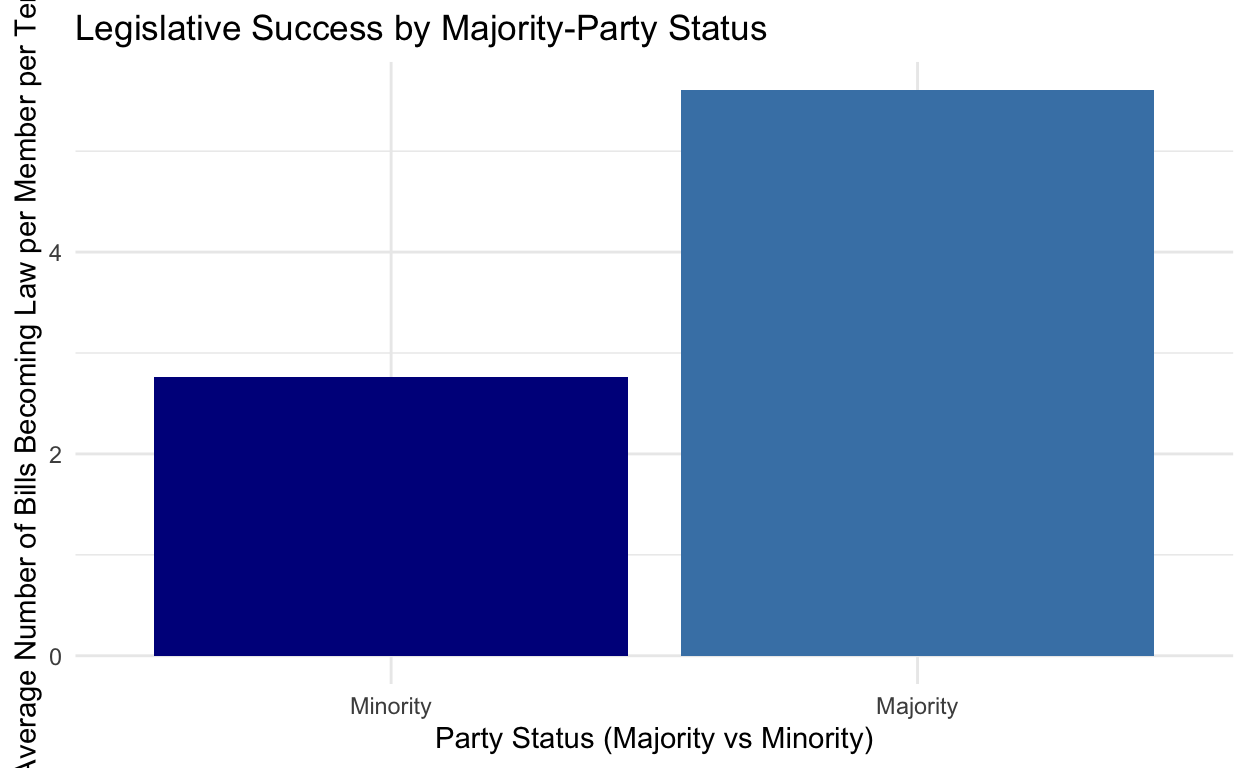
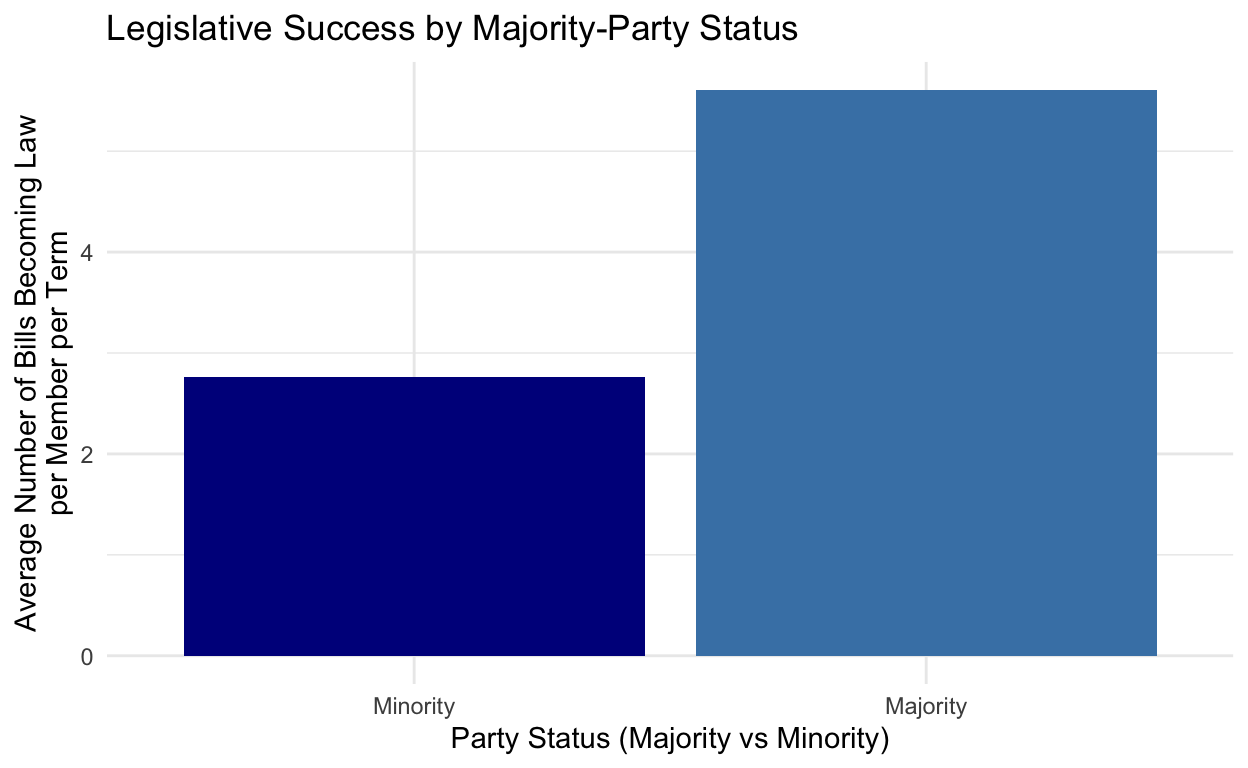
Final Project

diff --git a/index.html b/index.html
@@ -1665,7 +1665,7 @@ code span.wa { color: #5e5e5e; font-style: italic; } /* Warning */
 <span>  <span class='fu'><a href='https://ggplot2.tidyverse.org/reference/labs.html'>labs</a></span><span class='op'>(</span></span>
 <span>    title <span class='op'>=</span> <span class='st'>"Legislative Success by Majority-Party Status"</span>,</span>
 <span>    x <span class='op'>=</span> <span class='st'>"Party Status (Majority vs Minority)"</span>,</span>
-<span>    y <span class='op'>=</span> <span class='st'>"Average Number of Bills Becoming Law per Member per Term"</span>,</span>
+<span>    y <span class='op'>=</span> <span class='st'>"Average Number of Bills Becoming Law\nper Member per Term"</span>,</span>
 <span>    fill <span class='op'>=</span> <span class='st'>"Party Status"</span></span>
 <span>  <span class='op'>)</span> <span class='op'>+</span></span>
 <span>  <span class='fu'><a href='https://ggplot2.tidyverse.org/reference/scale_discrete.html'>scale_x_discrete</a></span><span class='op'>(</span>labels <span class='op'>=</span> <span class='fu'><a href='https://rdrr.io/r/base/c.html'>c</a></span><span class='op'>(</span><span class='st'>"0"</span> <span class='op'>=</span> <span class='st'>"Minority"</span>, <span class='st'>"1"</span> <span class='op'>=</span> <span class='st'>"Majority"</span><span class='op'>)</span><span class='op'>)</span> <span class='op'>+</span></span>
